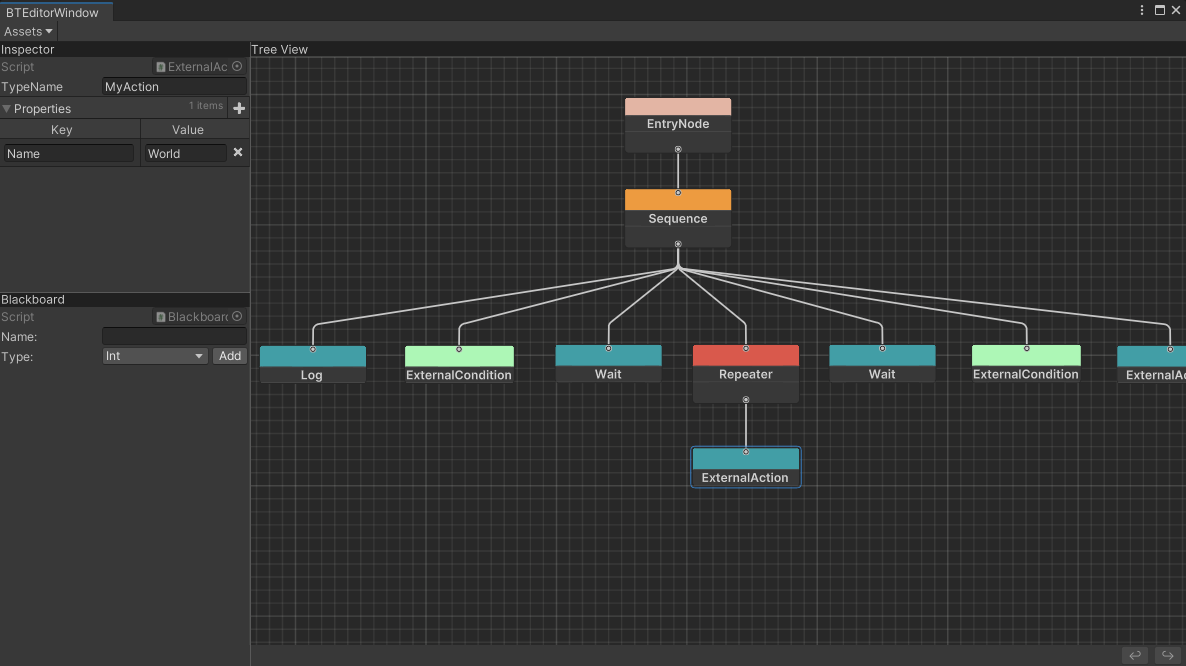
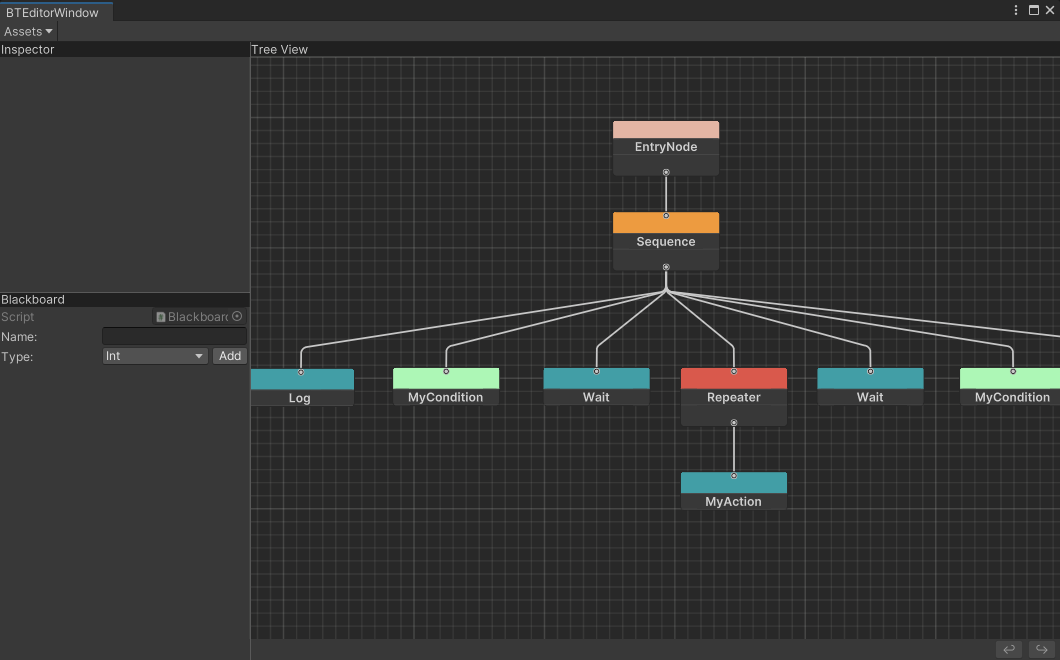
1. 去掉节点Update传递deltaTime，改为使用C#自带的时间计算 2. 将External Node的TypeName同步更新到对应的NodeView的title上，便于识别

diff --git a/Assets/BTCore/Runtime/BTData.cs b/Assets/BTCore/Runtime/BTData.cs
@@ -19,21 +19,24 @@ namespace BTCore.Runtime
     {
         public TreeNodeData TreeNodeData = new TreeNodeData();
         public Blackboard Blackboard = new Blackboard();
+        public BTSettings Settings = new BTSettings();
         
         [NonSerialized]
         public NodeState TreeState = NodeState.Inactive;
         
-        /// <summary>
-        /// deltaTime为服务端Tick一次的时间间隔，或者帧同步的帧间隔时间，单位为ms
-        /// 注意：Unity里面跑，帧率太快的话，会导致类型转换丢失时间，可能跟实际对不上
-        /// </summary>
-        /// <param name="deltaTime"></param>
-        /// <returns></returns>
-        public NodeState Update(int deltaTime) {
-            if (TreeNodeData.EntryNode != null && TreeState is NodeState.Inactive or NodeState.Running) {
-                TreeState = TreeNodeData.EntryNode.Update(deltaTime);
+        public NodeState Update() {
+            if (TreeNodeData.EntryNode == null) {
+                return NodeState.Failure;
             }
             
+            if (TreeState is NodeState.Inactive or NodeState.Running) {
+                TreeState = TreeNodeData.EntryNode.Update();
+            }
+            else if (Settings.RestartWhenComplete) {
+                TreeNodeData.EntryNode.Abort();
+                TreeState = NodeState.Inactive;
+            }
+
             return TreeState;
         }
 

diff --git a/Assets/BTCore/Editor/Inspectors/ExternalNodeInspector.cs b/Assets/BTCore/Editor/Inspectors/ExternalNodeInspector.cs
@@ -18,6 +18,7 @@ namespace BTCore.Editor.Inspectors
 {
     public abstract class ExternalNodeInspector : BTNodeInspector
     {
+        [TitleGroup("$GetTitleName")]
         [ShowInInspector]
         [LabelText("TypeName")]
         [LabelWidth(100)]
@@ -25,6 +26,7 @@ namespace BTCore.Editor.Inspectors
         [ValidateInput("StringValidator", "$GetInfoMessage", ContinuousValidationCheck = true)]
         protected string TypeName;
 
+        [TitleGroup("$GetTitleName")]
         [ShowInInspector]
         [OnValueChanged("OnFieldValueChanged")]
         protected Dictionary<string, string> Properties = new Dictionary<string, string>();
@@ -37,6 +39,8 @@ namespace BTCore.Editor.Inspectors
         }
 
         protected abstract string GetInfoMessage();
+
+        protected abstract string GetTitleName();
         
         public override void ImportData(BTNode data) {
             if (data is not IExternalNode externalNode) {
@@ -59,6 +63,11 @@ namespace BTCore.Editor.Inspectors
 
             _externalNode.TypeName = TypeName;
             _externalNode.Properties = Properties;
+            // 更新Name字段，同步更新对应NodeView的title显示
+            if (_externalNode is BTNode node) {
+                node.Name = TypeName;
+                OnNodeViewUpdate?.Invoke();
+            }
         }
 
         public override void Reset() {

diff --git a/Assets/BTCore/Runtime/Actions/Wait.cs b/Assets/BTCore/Runtime/Actions/Wait.cs
@@ -15,15 +15,15 @@ namespace BTCore.Runtime.Actions
     {
         public int Duration = 1000;    // 等待时长(单位ms)
         
-        private int _elapsedTime;
+        private DateTime _startTime;
         
         protected override void OnStart() {
-            _elapsedTime = 0;
+            _startTime = DateTime.UtcNow;
         }
 
         protected override NodeState OnUpdate() {
-            _elapsedTime += DeltaTime;
-            return _elapsedTime > Duration ? NodeState.Success : NodeState.Running;
+            var elapsedTime = (DateTime.UtcNow - _startTime).TotalMilliseconds;
+            return elapsedTime > Duration ? NodeState.Success : NodeState.Running;
         }
 
         protected override void OnStop() {

diff --git a/Assets/BTCore/Editor/Inspectors/Actions/ExternalActionInspector.cs b/Assets/BTCore/Editor/Inspectors/Actions/ExternalActionInspector.cs
@@ -9,14 +9,23 @@
 
 using BTCore.Editor.Attributes;
 using BTCore.Runtime.Externals;
+using Sirenix.OdinInspector;
 
 namespace BTCore.Editor.Inspectors.Actions
 {
     [BTNode(typeof(ExternalAction))]
     public class ExternalActionInspector : ExternalNodeInspector
     {
+        // [Title("External Action")]
+        // [DisplayAsString]
+        // private string _label = string.Empty;
+        
         protected override string GetInfoMessage() {
             return "必须填写外部Action类型名称!";
+        }
+
+        protected override string GetTitleName() {
+            return "External Action";
         }
     }
 }

diff --git a/Assets/BTCore/Runtime/BTSettings.cs b/Assets/BTCore/Runtime/BTSettings.cs
@@ -1,16 +1,17 @@
 //------------------------------------------------------------
-//        File:  IBTNode.cs
-//       Brief:  IBTNode
+//        File:  BTSettings.cs
+//       Brief:  BTSettings
 //
 //      Author:  Saroce, Saroce233@163.com
 //
-//    Modified:  2023-09-29
+//    Modified:  2023-10-20
 //============================================================
 
 namespace BTCore.Runtime
 {
-    public interface IBTNode : INode
+    // TODO 缺少编辑器设置面板
+    public class BTSettings
     {
-        NodeState Update();
+        public bool RestartWhenComplete = false;
     }
 }

diff --git a/Assets/BTCore/Runtime/Decorators/Repeater.cs b/Assets/BTCore/Runtime/Decorators/Repeater.cs
@@ -25,7 +25,7 @@ namespace BTCore.Runtime.Decorators
             }
             
             if (RepeatCount < 0) {
-                Child.Update(DeltaTime);
+                Child.Update();
                 return NodeState.Running;
             }
 
@@ -34,7 +34,7 @@ namespace BTCore.Runtime.Decorators
             }
 
             _counter++;
-            var nodeState = Child.Update(DeltaTime);
+            var nodeState = Child.Update();
             return nodeState != NodeState.Success ? nodeState : NodeState.Running;
         }
 

diff --git a/Assets/BTCore/Editor/Inspectors/BTNodeInspector.cs b/Assets/BTCore/Editor/Inspectors/BTNodeInspector.cs
@@ -7,13 +7,17 @@
 //    Modified:  2023-10-08
 //============================================================
 
+using System;
 using BTCore.Runtime;
-using Sirenix.OdinInspector;
+using UnityEngine;
 
 namespace BTCore.Editor.Inspectors
 {
     public abstract class BTNodeInspector : InspectorBase, IDataSerializableEditor<BTNode>
     {
+        [HideInInspector]
+        public Action OnNodeViewUpdate;
+        
         public abstract void ImportData(BTNode data);
 
         public abstract BTNode ExportData();

diff --git a/Assets/BTCore/Runtime/BTNode.cs b/Assets/BTCore/Runtime/BTNode.cs
@@ -24,13 +24,10 @@ namespace BTCore.Runtime
         public NodeState State = NodeState.Inactive;
         
         protected Blackboard Blackboard;
-        protected int DeltaTime { private set; get; } // 增量时间(ms)
 
         private bool _started;
         
-        public NodeState Update(int deltaTime) {
-            DeltaTime = deltaTime;
-            
+        public NodeState Update() {
             if (!_started) {
                 OnStart();
                 _started = true;

diff --git a/Assets/Examples/ExternalNode/AIAgent.cs b/Assets/Examples/ExternalNode/AIAgent.cs
@@ -13,7 +13,7 @@ namespace Examples.ExternalNode
 {
     public interface IAIAgent
     {
-        void Tick(int deltaTime);
+        void Tick();
     }
     
     public class AIAgent : IAIAgent
@@ -24,8 +24,8 @@ namespace Examples.ExternalNode
             _btData = btData;
         }
         
-        public void Tick(int deltaTime) {
-            _btData?.Update(deltaTime);
+        public void Tick() {
+            _btData?.Update();
         }
     }
 }

diff --git a/Assets/BTCore/Runtime/Composites/Parallel.cs b/Assets/BTCore/Runtime/Composites/Parallel.cs
@@ -31,7 +31,7 @@ namespace BTCore.Runtime.Composites
                 switch (nodeState) {
                     case NodeState.Inactive:
                     case NodeState.Running: {
-                        _childrenState[i] = Children[i].Update(DeltaTime);
+                        _childrenState[i] = Children[i].Update();
                         childrenComplete = false;
                         break;
                     }

diff --git a/Assets/BTCore/Editor/BTNodeView.cs b/Assets/BTCore/Editor/BTNodeView.cs
@@ -46,6 +46,15 @@ namespace BTCore.Editor
             _btView = btView;
         }
 
+        public void UpdateView() {
+            if (Node == null) {
+                return;
+            }
+
+            // 目前只有title属性有刷新需求，其他需要再加
+            title = Node.Name;
+        }
+
         public void ImportData(BTNode data) {
             Node = data;
             title = data.Name;

diff --git a/Assets/BTCore/Runtime/Composites/Selector.cs b/Assets/BTCore/Runtime/Composites/Selector.cs
@@ -21,7 +21,7 @@ namespace BTCore.Runtime.Composites
         protected override NodeState OnUpdate() {
             for (var i = childIndex; i < Children.Count; i++) {
                 childIndex = i;
-                var nodeState = Children[i].Update(DeltaTime);
+                var nodeState = Children[i].Update();
                 
                 switch (nodeState) {
                     case NodeState.Inactive:
